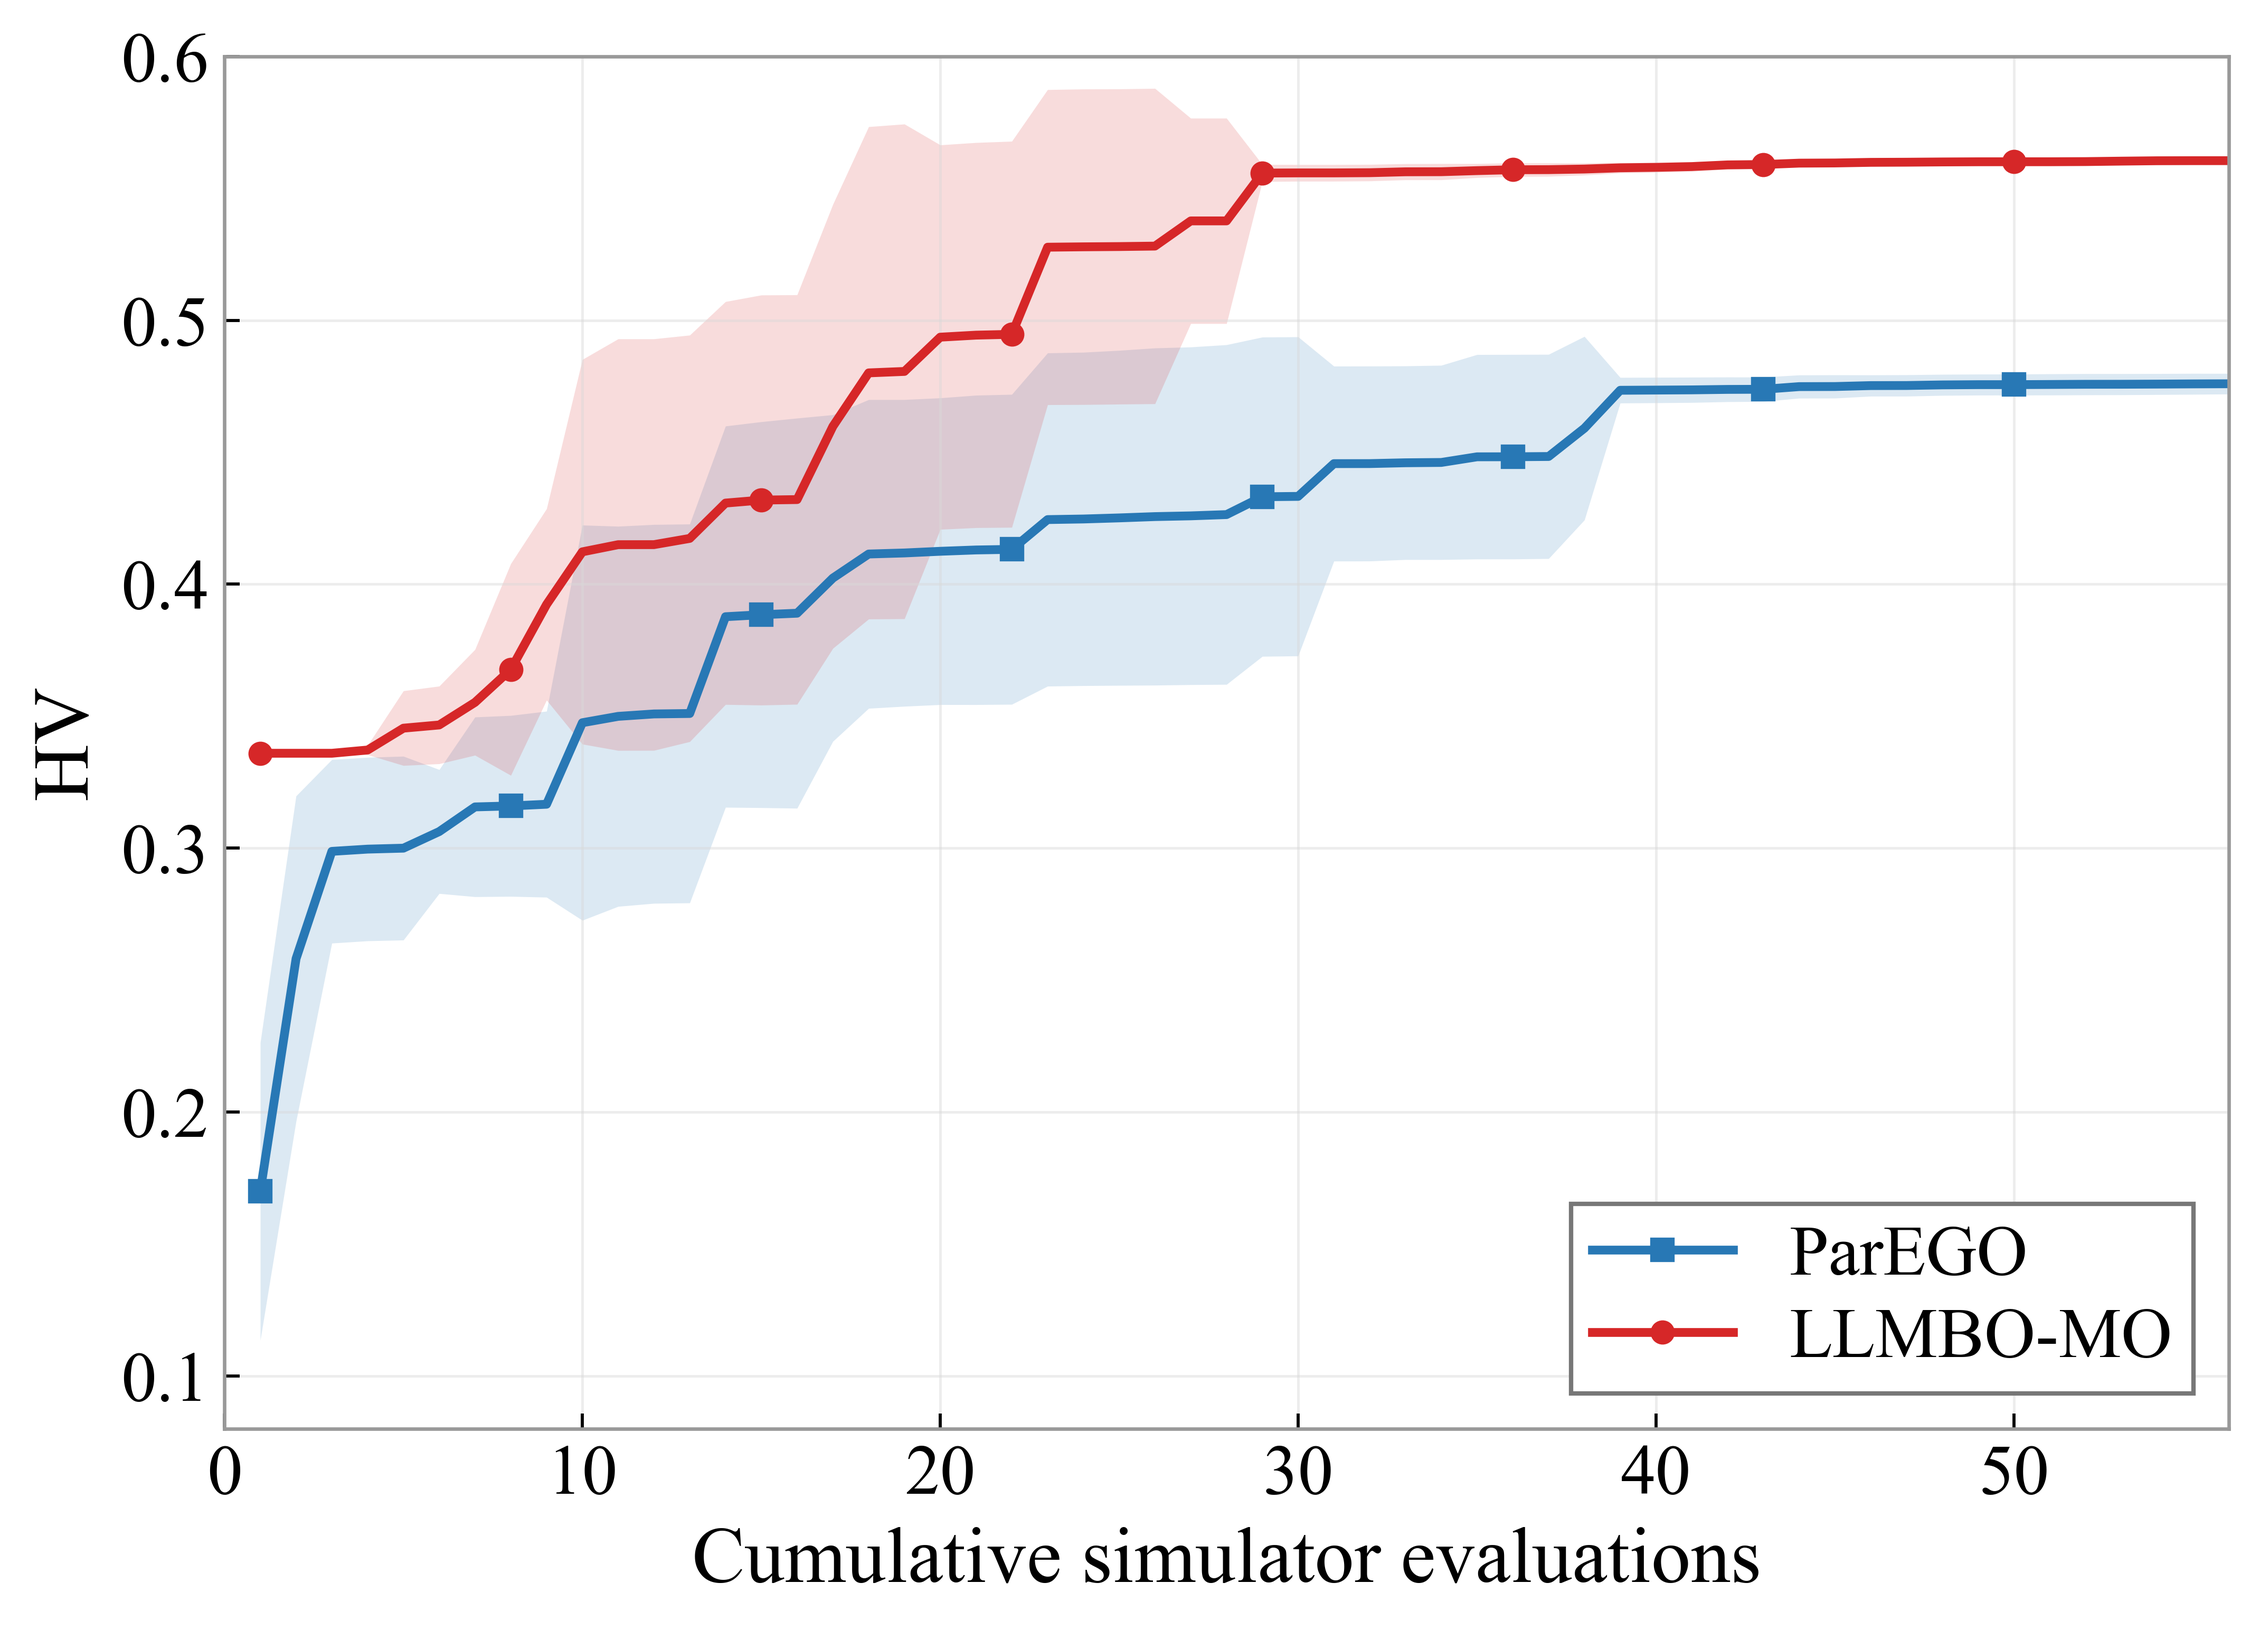
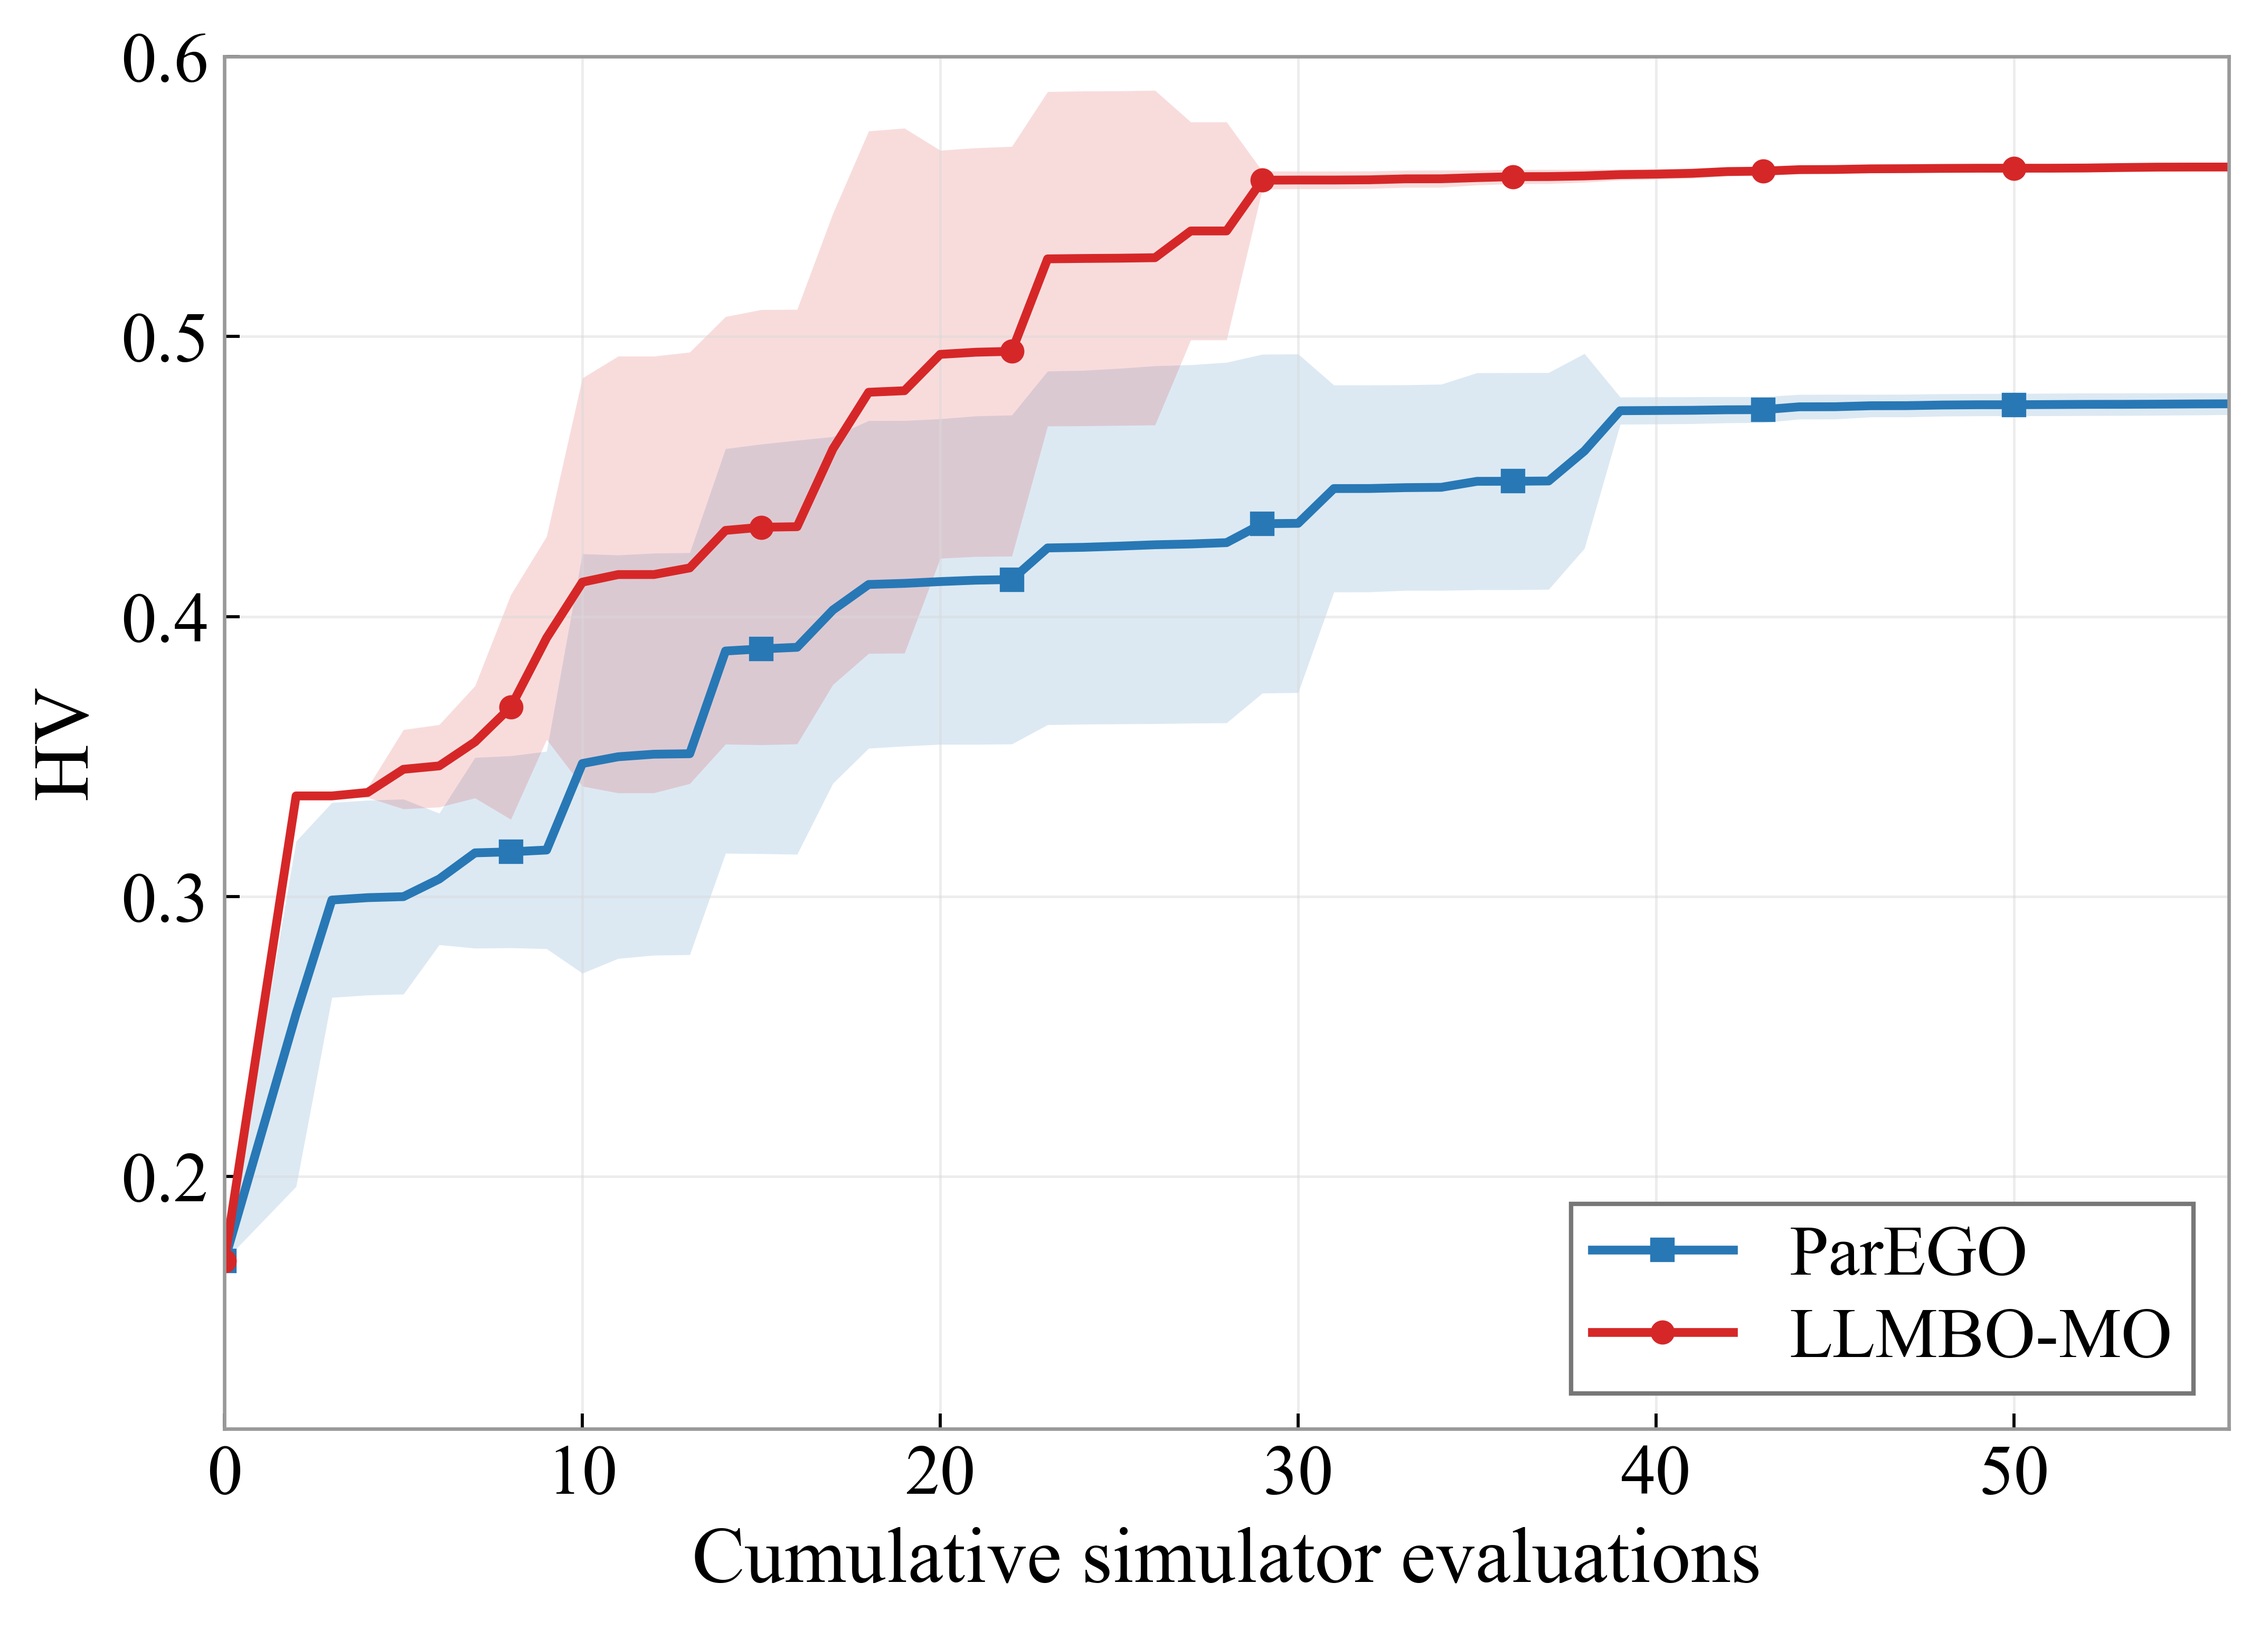
两张图片再次修改

diff --git a/scripts/make_hv_figures.py b/scripts/make_hv_figures.py
@@ -109,9 +109,10 @@ def make_chen(rows: list[dict[str, float]], output_dir: Path) -> dict[str, Any]:
     x = np.asarray([row["eval_index"] for row in rows])
     if x.size == 0 or x[0] != 1:
         raise ValueError("Chen2020 curve must begin at evaluation 1")
-    # The empty archive has zero HV before the first simulator evaluation.
-    # Keep all measured values, bands, and markers at evaluations 1 through 56.
-    plot_x = np.concatenate(([0], x))
+    # Replace the first displayed sample with a shared reference on the
+    # y-axis; retain subsequent evaluation coordinates without prepending.
+    plot_x = x.copy()
+    plot_x[0] = 0
     fig, ax = plt.subplots(figsize=(7.15, 5.15))
     specs = (
         ("ParEGO", "parego_hv", "parego_plot_band", "s", 0.16),
@@ -120,39 +121,24 @@ def make_chen(rows: list[dict[str, float]], output_dir: Path) -> dict[str, Any]:
         ("DISK", "disk_mean_hv", "disk_std_hv", "^", 0.11),
         ("PIMD", "pimd_mean_hv", "pimd_std_hv", "D", 0.11),
     )
+    shared_start_hv = min(rows[0][mean_key] for _, mean_key, _, _, _ in specs)
     for label, mean_key, band_key, marker, alpha in specs:
         mean = np.asarray([row[mean_key] for row in rows])
         band = np.asarray([row[band_key] for row in rows])
+        # Only the displayed first point is a reference, not a measured value.
+        mean[0] = shared_start_hv
+        band[0] = 0.0
         _band_line(
             ax,
             plot_x,
-            np.concatenate(([0.0], mean)),
-            np.concatenate(([0.0], band)),
+            mean,
+            band,
             label=label,
             marker=marker,
             alpha=alpha,
-            markevery=list(range(1, len(plot_x), 7)),
         )
-    # Reserve a small, visible strip for the zero-HV origin while keeping the
-    # measured range close to its original visual height. The mapping is
-    # continuous and invertible, so tick labels still report actual HV values.
-    knee, lower_scale = 0.15, 0.20
-
-    def compress_lower(values: np.ndarray) -> np.ndarray:
-        values = np.asarray(values)
-        return np.where(values <= knee, lower_scale * values, lower_scale * knee + values - knee)
-
-    def restore_lower(values: np.ndarray) -> np.ndarray:
-        values = np.asarray(values)
-        return np.where(
-            values <= lower_scale * knee,
-            values / lower_scale,
-            knee + values - lower_scale * knee,
-        )
-
-    ax.set_yscale("function", functions=(compress_lower, restore_lower))
     ax.set_xlim(0, 56)
-    ax.set_ylim(0.0, 0.40)
+    ax.set_ylim(0.12, 0.40)
     ax.set_yticks([0.15, 0.20, 0.25, 0.30, 0.35, 0.40])
     ax.set_xlabel("Cumulative simulator evaluations")
     ax.set_ylabel("HV")
@@ -166,6 +152,11 @@ def make_chen(rows: list[dict[str, float]], output_dir: Path) -> dict[str, Any]:
 def make_ecker(rows: list[dict[str, float]], output_dir: Path) -> dict[str, Any]:
     """Reproduce the supplied Ecker curve on its common manuscript HV scale."""
     x = np.asarray([row["eval_index"] for row in rows])
+    if x.size == 0 or x[0] != 1:
+        raise ValueError("Ecker2015 curve must begin at evaluation 1")
+    # The first position is a shared display reference; no point is prepended.
+    plot_x = x.copy()
+    plot_x[0] = 0
     display_scale = 0.3
     sample_correction = np.sqrt(5.0 / 4.0)
     parego_mean = display_scale * np.asarray([row["parego_mean_hv"] for row in rows])
@@ -180,12 +171,32 @@ def make_ecker(rows: list[dict[str, float]], output_dir: Path) -> dict[str, Any]
         * sample_correction
         * np.asarray([row["llmbo_mo_raw_std_hv"] for row in rows])
     )
+    shared_start_hv = float(min(parego_mean[0], llmbo_mean[0]))
+    parego_plot_mean, llmbo_plot_mean = parego_mean.copy(), llmbo_mean.copy()
+    parego_plot_sd, llmbo_plot_sd = parego_sd.copy(), llmbo_sd.copy()
+    parego_plot_mean[0] = llmbo_plot_mean[0] = shared_start_hv
+    parego_plot_sd[0] = llmbo_plot_sd[0] = 0.0
 
     fig, ax = plt.subplots(figsize=(7.15, 5.15))
-    _band_line(ax, x, parego_mean, parego_sd, label="ParEGO", marker="s")
-    _band_line(ax, x, llmbo_mean, llmbo_sd, label="LLMBO-MO", marker="o")
+    _band_line(
+        ax,
+        plot_x,
+        parego_plot_mean,
+        parego_plot_sd,
+        label="ParEGO",
+        marker="s",
+    )
+    _band_line(
+        ax,
+        plot_x,
+        llmbo_plot_mean,
+        llmbo_plot_sd,
+        label="LLMBO-MO",
+        marker="o",
+    )
     ax.set_xlim(0, 56)
-    ax.set_ylim(0.08, 0.60)
+    ax.set_ylim(0.11, 0.60)
+    ax.set_yticks([0.20, 0.30, 0.40, 0.50, 0.60])
     ax.set_xlabel("Cumulative simulator evaluations")
     ax.set_ylabel("HV")
     ax.grid(True)
